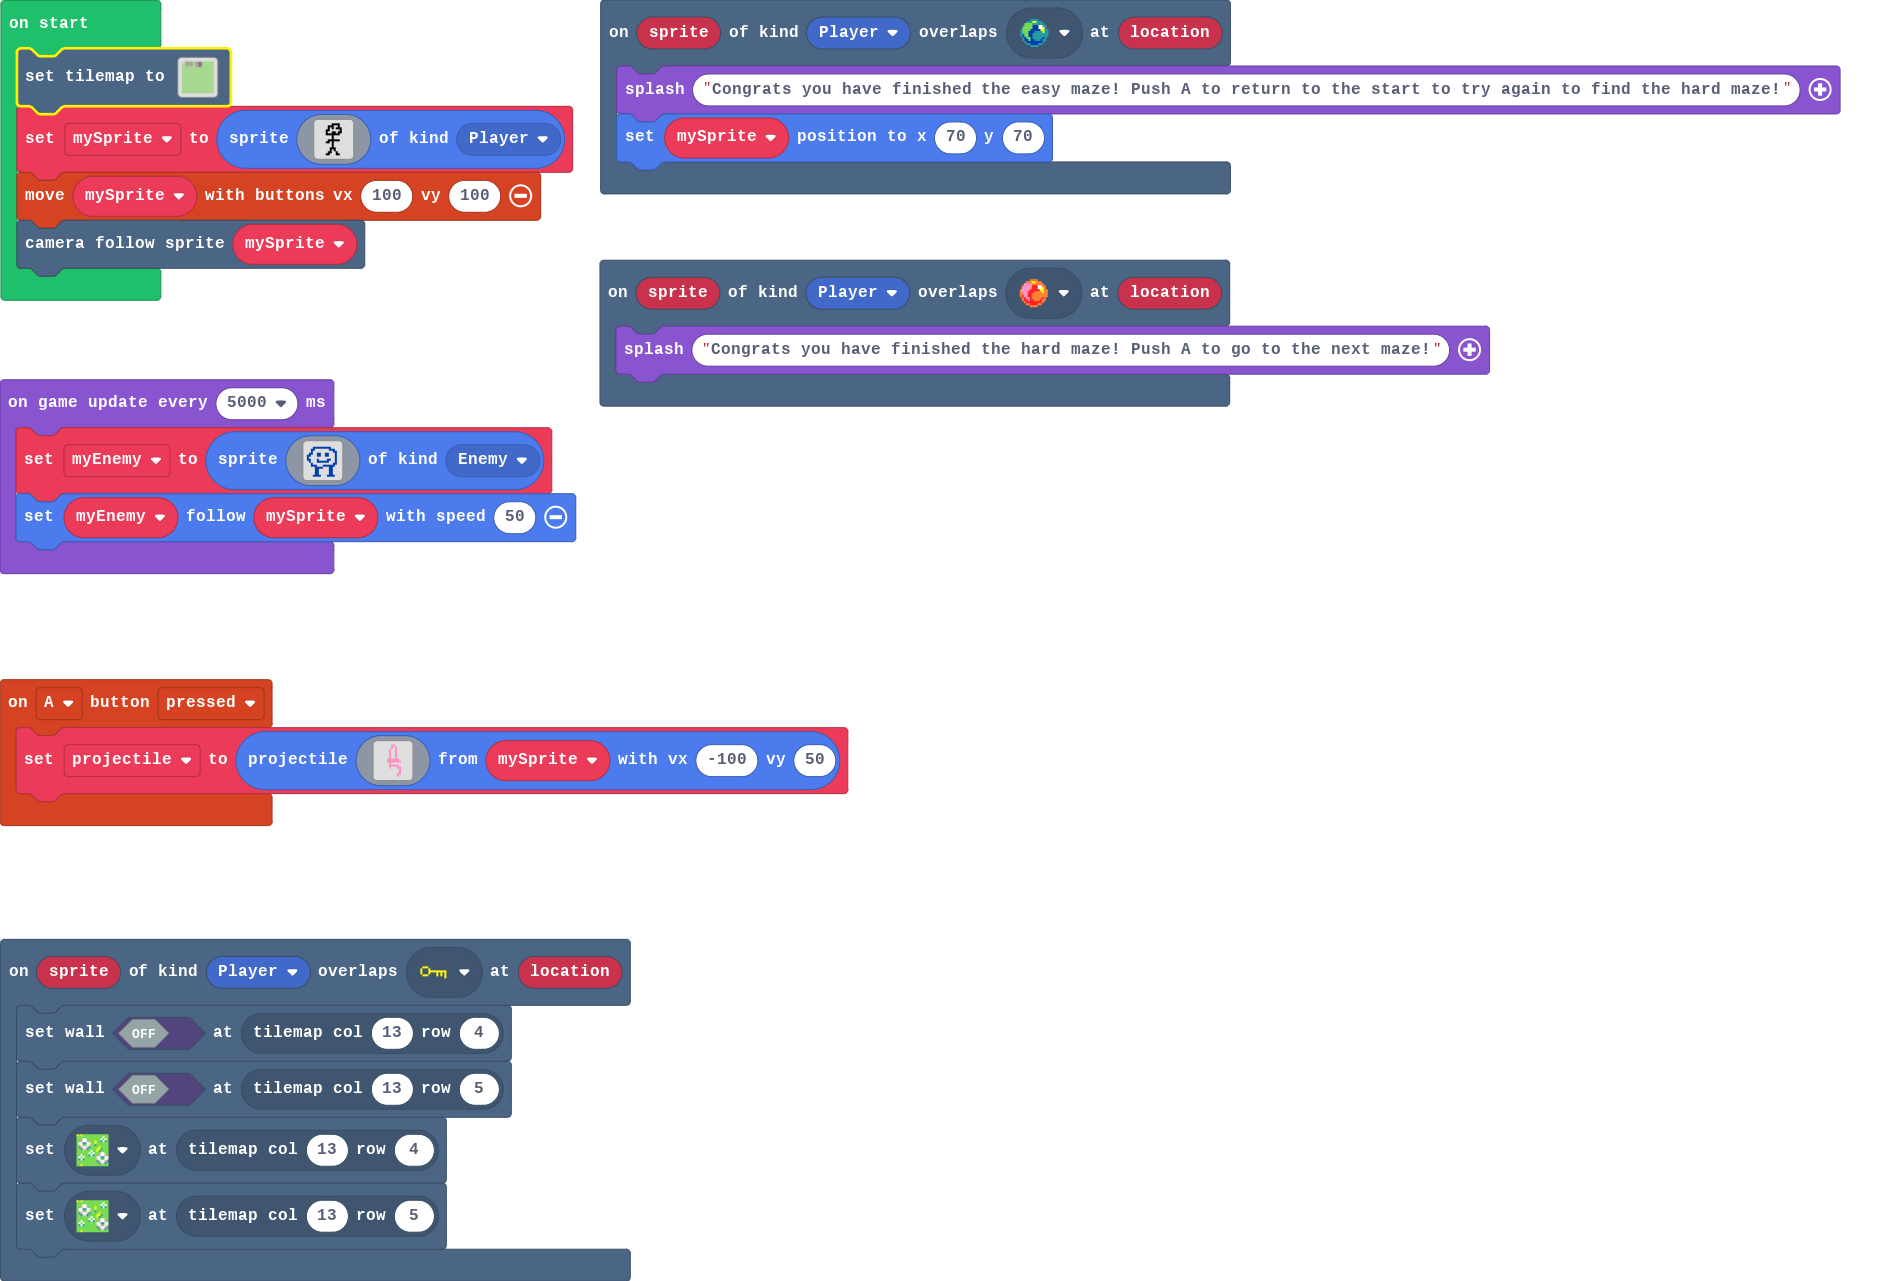
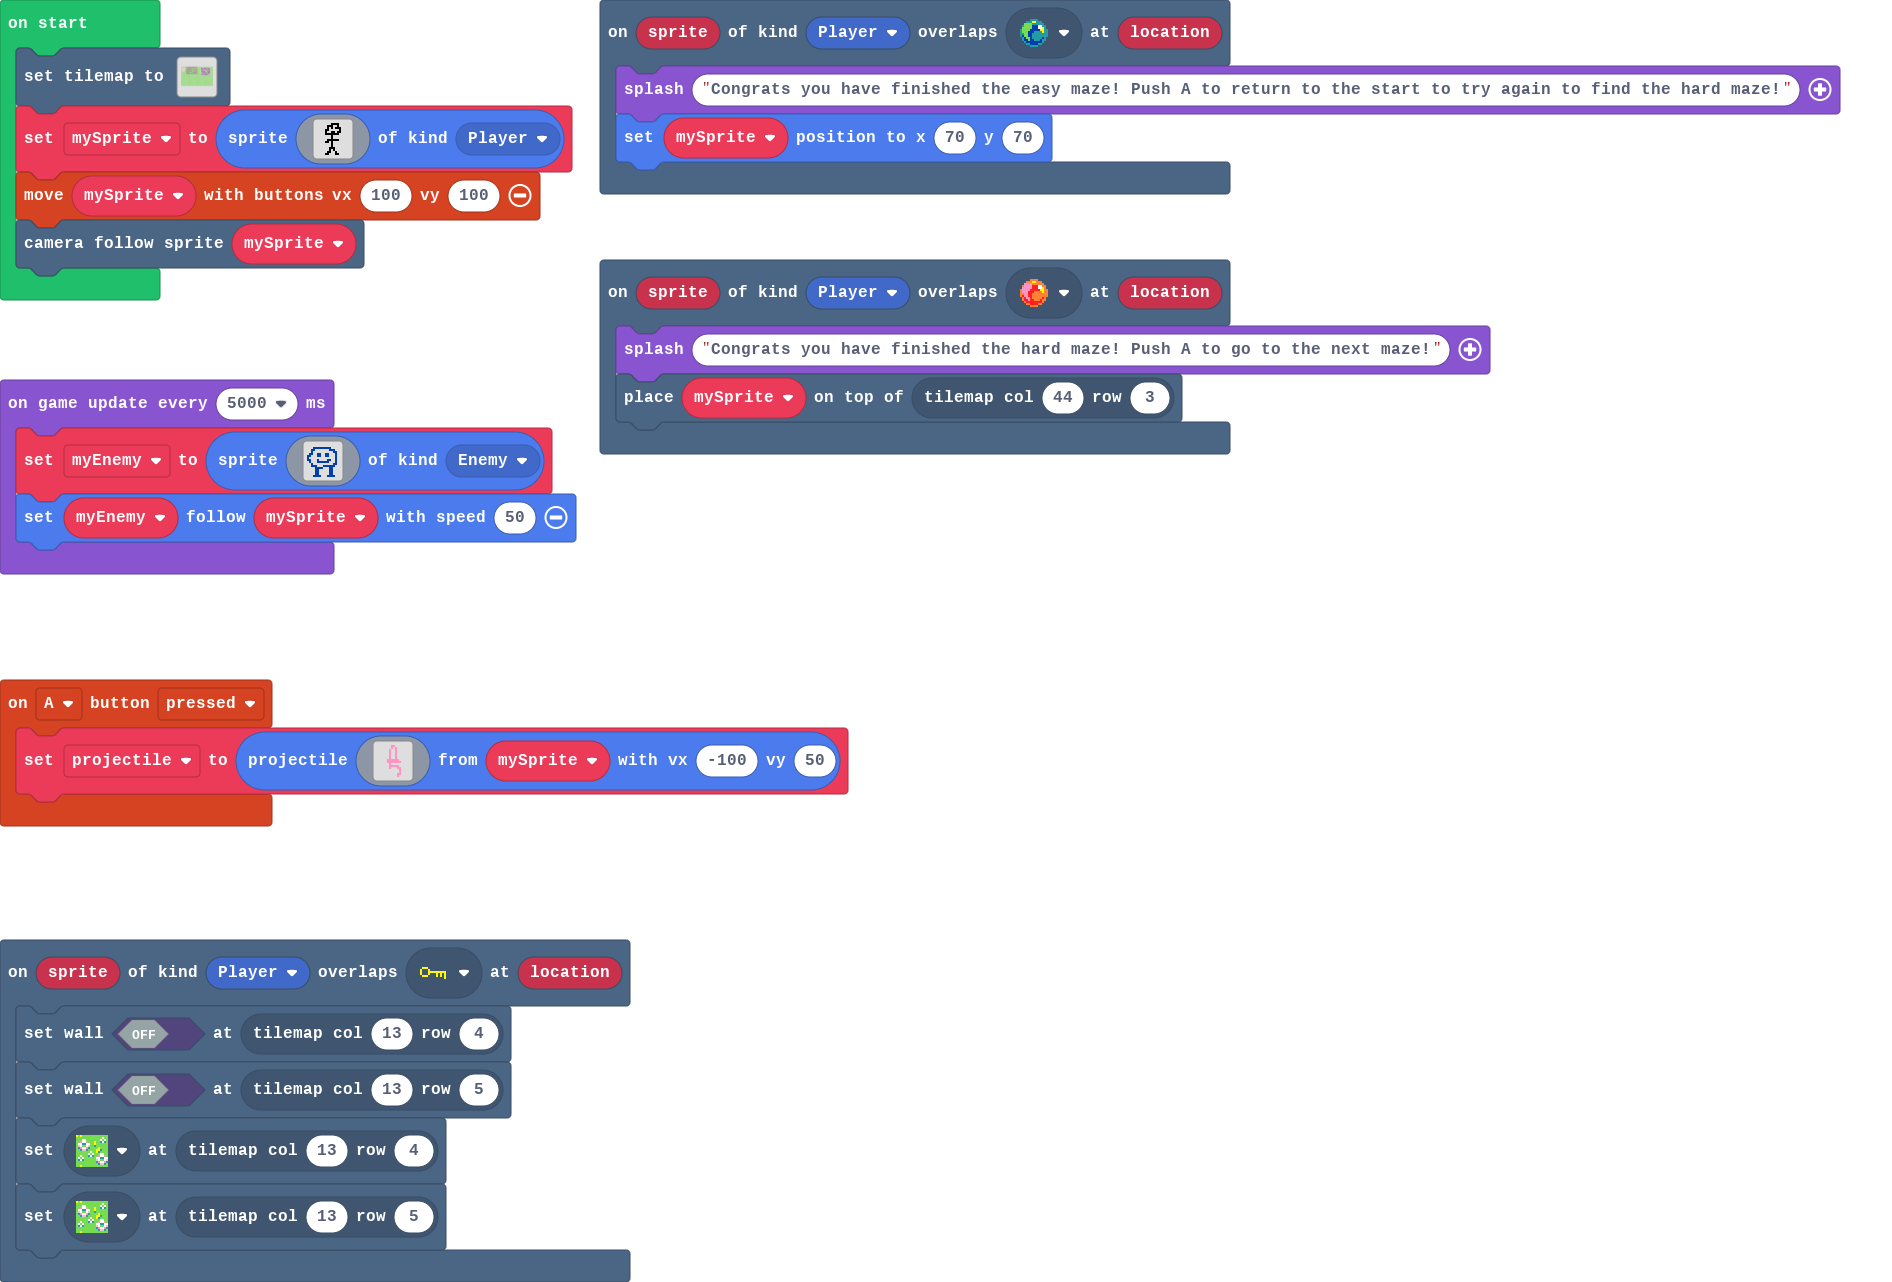
Update main.blocks, main.ts, tilemap.g.jres, tilemap.g.ts

diff --git a/tilemap.g.ts b/tilemap.g.ts
@@ -8,108 +8,48 @@ namespace myTiles {
     helpers._registerFactory("tilemap", function(name: string) {
         switch(helpers.stringTrim(name)) {
             case "level1":
[1 lines of base64/hex data omitted]
-...........222222222222222222222222.................................................................
-...........2......2......22.......2.................................................................
-...........2.222222.2222.22.222...2.................................................................
-.............2......2.....2.2.2...2.................................................................
-...........2...2222222222.2.2.2...2.................................................................
-...........2.2222.......2.2.2.2...2.................................................................
-...........2.2222.22222.2.2.2.22222.................................................................
-...........2.2....2.......2.2.22222.................................................................
-...........2.2222.2222222.2.2.....2.................................................................
-...........2......2...2...2.22222.2.................................................................
-...........2.222222...2.2.2.......2.................................................................
-...........2.222222...2.2.2222222.2.................................................................
-...........2.2........2.2.2222222.2.................................................................
-...........2...2222...2.2.........2.................................................................
-...........222222222222222222222222.................................................................
-....................................................................................................
-....................................................................................................
-....................................................................................................
-....................................................................................................
-....................................................................................................
-....................................................................................................
-....................................................................................................
-....................................................................................................
-....................................................................................................
-....................................................................................................
-....................................................................................................
-....................................................................................................
-....................................................................................................
-....................................................................................................
-....................................................................................................
-....................................................................................................
-....................................................................................................
-....................................................................................................
-....................................................................................................
-....................................................................................................
-....................................................................................................
-....................................................................................................
-....................................................................................................
-....................................................................................................
-....................................................................................................
-....................................................................................................
-....................................................................................................
-....................................................................................................
-....................................................................................................
-....................................................................................................
-....................................................................................................
-....................................................................................................
-....................................................................................................
-....................................................................................................
-....................................................................................................
-....................................................................................................
-....................................................................................................
-....................................................................................................
-....................................................................................................
-....................................................................................................
-....................................................................................................
-....................................................................................................
-....................................................................................................
-....................................................................................................
-....................................................................................................
-....................................................................................................
-....................................................................................................
-....................................................................................................
-....................................................................................................
-....................................................................................................
-....................................................................................................
-....................................................................................................
-....................................................................................................
-....................................................................................................
-....................................................................................................
-....................................................................................................
-....................................................................................................
-....................................................................................................
-....................................................................................................
-....................................................................................................
-....................................................................................................
-....................................................................................................
-....................................................................................................
-....................................................................................................
-....................................................................................................
-....................................................................................................
-....................................................................................................
-....................................................................................................
-....................................................................................................
-....................................................................................................
-....................................................................................................
-....................................................................................................
-....................................................................................................
-....................................................................................................
-....................................................................................................
-....................................................................................................
-....................................................................................................
-....................................................................................................
-....................................................................................................
-....................................................................................................
-....................................................................................................
-....................................................................................................
-....................................................................................................
-....................................................................................................
-....................................................................................................
-`, [myTiles.transparency16,sprites.castle.tileGrass2,sprites.castle.tilePath1,sprites.castle.tilePath2,sprites.castle.tilePath3,sprites.castle.tilePath6,sprites.castle.tilePath9,sprites.castle.tilePath8,sprites.castle.tilePath7,sprites.castle.tilePath4,sprites.castle.tilePath5,sprites.builtin.forestTiles24,sprites.dungeon.collectibleBlueCrystal,sprites.dungeon.collectibleRedCrystal,sprites.dungeon.floorLight0,sprites.dungeon.darkGroundCenter], TileScale.Sixteen);
[1 lines of base64/hex data omitted]
+...........222222222222222222222222.................................
+...........2......2......22.......2.......222222222222222222222.....
+...........2.222222.2222.22.222...2.......2...22............2.2.....
+.............2......2.....2.2.2...2.......2......2.2.222222.2.2.....
+...........2...2222222222.2.2.2...2.......2...2222.2.2......2.2.....
+...........2.2222.......2.2.2.2...2.......22.222.2.2...222..2.2.....
+...........2.2222.22222.2.2.2.22222.......22.....2.22..222.22.2.....
+...........2.2....2.......2.2.22222.......222.22222222........2.....
+...........2.2222.2222222.2.2.....2.......2...2...2.222222222.2.....
+...........2......2...2...2.22222.2.......2.2.222.2.2.22....2.2.....
+...........2.222222...2.2.2.......2.......2.2.....2.2.22....2.2.....
+...........2.222222...2.2.2222222.2.......2.2.2.222.2.22....2.2.....
+...........2.2........2.2.2222222.2.......222.2........2222.2.2.....
+...........2...2222...2.2.........2.......2.2.22222222222.....2.....
+...........222222222222222222222222.......2.2.......2.....22222.....
+..........................................2.222222222..22222222.....
+..........................................2...................2.....
+..........................................222222222222222222222.....
+....................................................................
+....................................................................
+....................................................................
+....................................................................
+....................................................................
+....................................................................
+....................................................................
+....................................................................
+....................................................................
+....................................................................
+....................................................................
+....................................................................
+....................................................................
+....................................................................
+....................................................................
+....................................................................
+....................................................................
+....................................................................
+....................................................................
+....................................................................
+....................................................................
+....................................................................
+`, [myTiles.transparency16,sprites.castle.tileGrass2,sprites.castle.tilePath1,sprites.castle.tilePath2,sprites.castle.tilePath3,sprites.castle.tilePath6,sprites.castle.tilePath9,sprites.castle.tilePath8,sprites.castle.tilePath7,sprites.castle.tilePath4,sprites.castle.tilePath5,sprites.builtin.forestTiles24,sprites.dungeon.collectibleBlueCrystal,sprites.dungeon.collectibleRedCrystal,sprites.dungeon.floorLight0,sprites.dungeon.darkGroundCenter,sprites.dungeon.darkGroundNorthWest1,sprites.dungeon.collectibleInsignia], TileScale.Sixteen);
         }
         return null;
     })

diff --git a/main.ts b/main.ts
@@ -33,6 +33,7 @@ scene.onOverlapTile(SpriteKind.Player, sprites.dungeon.collectibleBlueCrystal, f
 })
 scene.onOverlapTile(SpriteKind.Player, sprites.dungeon.collectibleRedCrystal, function (sprite, location) {
     game.splash("Congrats you have finished the hard maze! Push A to go to the next maze!")
+    tiles.placeOnTile(mySprite, tiles.getTileLocation(44, 3))
 })
 let myEnemy: Sprite = null
 let projectile: Sprite = null
